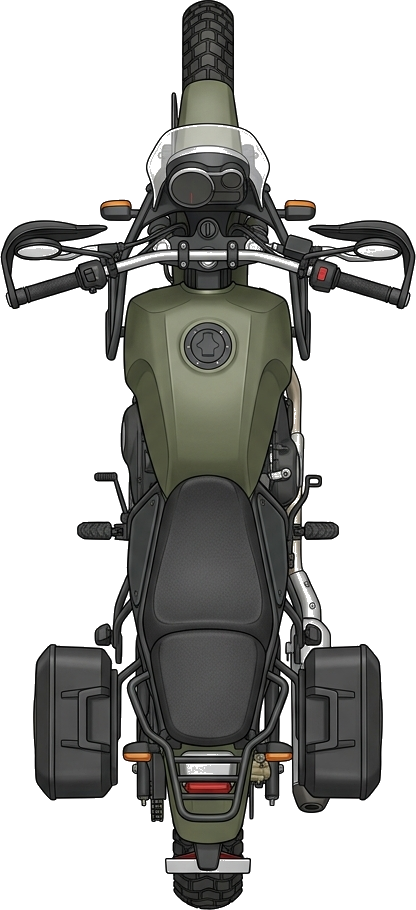
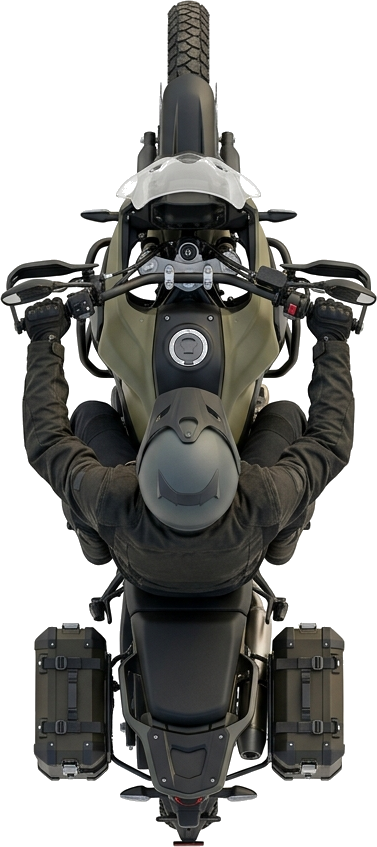
## Road + Rider Refinements Done (verified via screenshots) - **Rider added**: regenerated a top-down ADV bike WITH a seated rider (helmet, jacket, gloved hands on the bars) matching the illustration quality, background cut out cleanly → `/moto-top.png`. - **Rides behind content**: moved the bike to
- Next Action Items:
  - **Book Your Ride**: Build the `/book` enquiry page with a premium form that saves ride requests to the database
  - **Info & FAQ**: Add a clean accordion FAQ page you can edit from the admin dashboard
  - **Journal Stories**: Give each journal card its own readable article page with photos and a share link
  - **Checkpoint Glow**: Make the bike briefly slow and glow as it reaches each section, marking it as a stop on the ride

diff --git a/frontend/src/components/RoadJourney.js b/frontend/src/components/RoadJourney.js
@@ -47,6 +47,8 @@ export default function RoadJourney({ motorcycle, children }) {
     const total = path.getTotalLength();
     let raf = 0;
     let smoothAngle = 180; // start heading downwards
+    let lastP = 0;
+    let dir = 1; // 1 = scrolling down (face forward/down), -1 = scrolling up (face back/up)
 
     const update = () => {
       const wrap = wrapRef.current;
@@ -62,6 +64,12 @@ export default function RoadJourney({ motorcycle, children }) {
       let p = (scrollY + vh * 0.5 - wrapTop) / denom;
       p = Math.max(0, Math.min(1, p));
 
+      // scroll direction (debounced against jitter)
+      if (Math.abs(p - lastP) > 0.0004) {
+        dir = p > lastP ? 1 : -1;
+        lastP = p;
+      }
+
       const pt = path.getPointAtLength(p * total);
       const ahead = path.getPointAtLength(Math.min(total, p * total + 2));
 
@@ -69,13 +77,15 @@ export default function RoadJourney({ motorcycle, children }) {
       const dxPx = ((ahead.x - pt.x) / 100) * width;
       const dyPx = ((ahead.y - pt.y) / VBH) * wrapH;
 
-      // heading: bike art points UP by default, +90 makes it face travel direction
+      // heading: bike art points UP by default, +90 makes it face along the path.
+      // Flip 180 when riding UP the road so the front wheel leads the way it moves.
       let angle = (Math.atan2(dyPx, dxPx) * 180) / Math.PI + 90;
+      if (dir < 0) angle += 180;
       // shortest-path angular smoothing to avoid jumps
       let diff = angle - smoothAngle;
       while (diff > 180) diff -= 360;
       while (diff < -180) diff += 360;
-      smoothAngle += diff * 0.35;
+      smoothAngle += diff * 0.25;
 
       const moto = motoRef.current;
       if (moto) {
@@ -155,13 +165,13 @@ export default function RoadJourney({ motorcycle, children }) {
         <div
           ref={motoRef}
           data-testid="scroll-motorcycle"
-          className="absolute z-20 pointer-events-none will-change-transform"
+          className="absolute z-0 pointer-events-none will-change-transform"
           style={{ left: '50%', top: '0px' }}
         >
           <img
             src={motorcycle}
-            alt="7HUES ADV motorcycle riding the route"
-            className="w-12 md:w-16 lg:w-20 h-auto drop-shadow-[0_12px_22px_rgba(0,0,0,0.28)]"
+            alt="7HUES ADV motorcycle and rider on the route"
+            className="w-[40px] md:w-[52px] lg:w-[66px] h-auto drop-shadow-[0_12px_22px_rgba(0,0,0,0.28)]"
           />
         </div>
       )}

diff --git a/memory/PRD.md b/memory/PRD.md
@@ -79,6 +79,15 @@ Logo: /logo.png (circular 7HUES road-mark). Motorcycle marker: /moto.png (green-
 - Responsive sizes: w-12 (mobile) / md:w-16 / lg:w-20. Hidden under prefers-reduced-motion (road still shows).
 - Verified via screenshot tool at multiple scroll positions (desktop) — path weaves, bike follows & rotates correctly.
 
+## Road/bike refinements (2026-09-01) — DONE
+- Bike art now includes a RIDER (helmet + jacket + gloved hands on bars), top-down, matching illustration quality
+  (regenerated via Gemini on white bg, cut out with PIL floodfill). Saved to /app/frontend/public/moto-top.png.
+- Bike now rides BEHIND content: moved from z-20 to z-0 (below the z-10 content layer) so opaque photos/cards
+  occlude it and it only shows in the negative space — no longer steals attention or covers text/images.
+- Size reduced ~18%: w-[40px] / md:w-[52px] / lg:w-[66px].
+- Heading now respects scroll direction: faces DOWN when scrolling down (~166\u00b0) and flips to face UP when scrolling
+  up (~9\u00b0), via a debounced scroll-direction flag (+180 on reverse) with angular smoothing. Verified by screenshots.
+
 ## Refinement Pass 1 (2026-08-27) — homepage art direction
 - Motorcycle now MUCH smaller and glides at the viewport vertical centre while moving horizontally along the road (banks with direction). Road drifts far across the page horizontally, creating negative space.
 - Navbar trimmed to EXPERIENCES / INFO & FAQ / JOURNAL; more translucent over hero.
